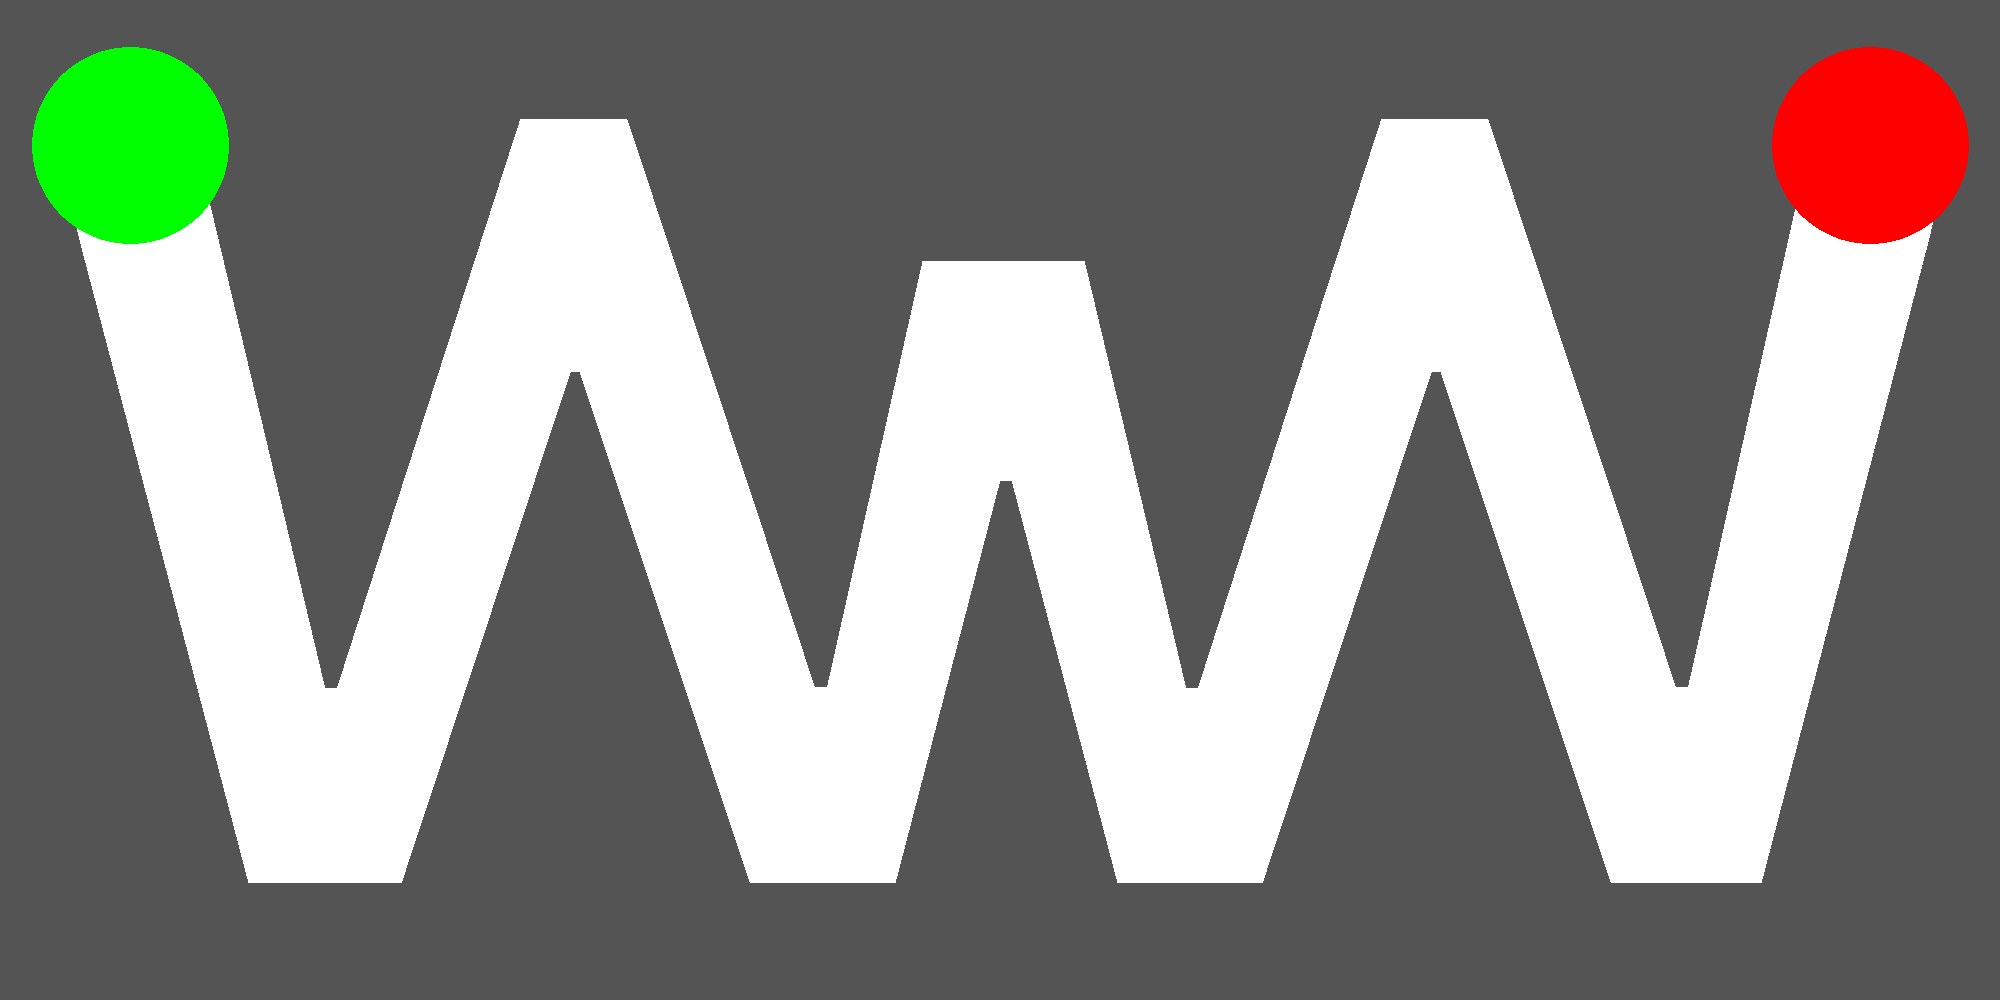
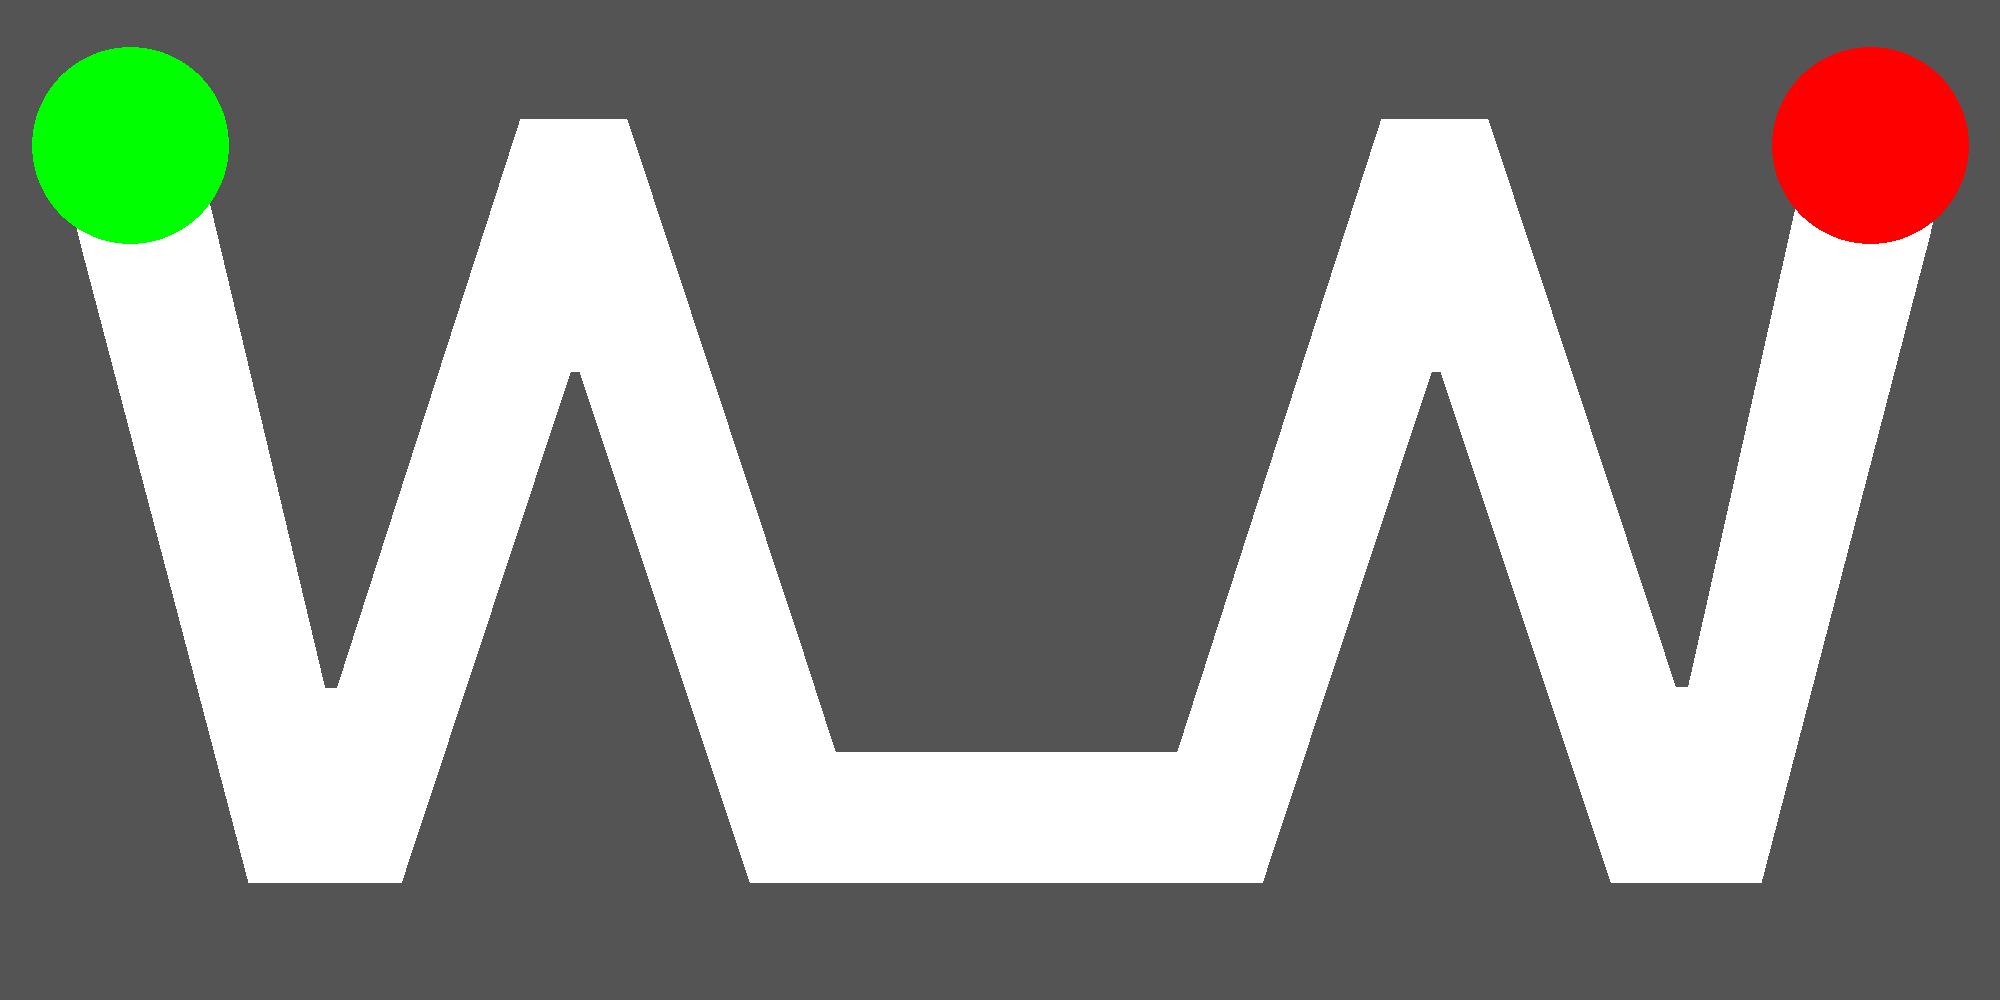
Magic Battles - Add Chains
Magic Battles - Add Chains

Changed region(s): [[0.403, 0.248, 0.62, 0.899]]

diff --git a/BondageClub/Screens/MiniGame/MagicBattle/MagicBattle.js b/BondageClub/Screens/MiniGame/MagicBattle/MagicBattle.js
@@ -8,6 +8,7 @@ var MagicBattleAvailSpell = [];
 var MagicBattleOpponentSpell = 0;
 var MagicBattlePlayerAppearance = null;
 var MagicBattleOpponentAppearance = null;
+var MagicBattleSpellDifficulty = [3, 5, 7, 9, 6, 8];
 
 /**
  * Start a magic battle against an opponent
@@ -40,12 +41,14 @@ function MagicBattleLoad() {
  */
 function MagicBattleGetDifficulty(C) {
 	let D = 0;
-	if ((InventoryGet(C, "Cloth") == null) && (InventoryGet(C, "ClothLower") == null) && (InventoryGet(C, "ClothAccessory") == null) && (InventoryGet(C, "Shoes") == null)) D = D + 2;		
-	if ((InventoryGet(C, "Bra") == null) && (InventoryGet(C, "Panties") == null) && (InventoryGet(C, "Socks") == null) && (InventoryGet(C, "Gloves") == null) && (InventoryGet(C, "Garters") == null) && (InventoryGet(C, "Corset") == null)) D = D + 2;
-	if (InventoryGet(C, "ItemLegs") != null) D++; 
+	if ((InventoryGet(C, "Cloth") == null) && (InventoryGet(C, "ClothLower") == null) && (InventoryGet(C, "ClothAccessory") == null) && (InventoryGet(C, "Shoes") == null)) D++;
+	if ((InventoryGet(C, "Bra") == null) && (InventoryGet(C, "Panties") == null) && (InventoryGet(C, "Socks") == null) && (InventoryGet(C, "Gloves") == null) && (InventoryGet(C, "Garters") == null) && (InventoryGet(C, "Corset") == null)) D = D + 3;
+	if (InventoryGet(C, "ItemLegs") != null) D++;
 	if (InventoryGet(C, "ItemFeet") != null) D++;
-	if (InventoryGet(C, "ItemArms") != null) D = D + 2;
-	if (InventoryGet(C, "ItemTorso") != null) D = D + 2;
+	if (InventoryIsWorn(C, "HempRope", "ItemArms")) D++;
+	if (InventoryIsWorn(C, "Chains", "ItemArms")) D = D + 3;
+	if (InventoryIsWorn(C, "HempRopeHarness", "ItemTorso")) D++;
+	if (InventoryIsWorn(C, "CrotchChain", "ItemTorso")) D = D + 3;
 	return D;
 }
 
@@ -60,14 +63,18 @@ function MagicBattleGetAvailSpells(C) {
 	} else {
 		let Spells = [];
 		if ((InventoryGet(C, "Bra") != null) || (InventoryGet(C, "Panties") != null) || (InventoryGet(C, "Socks") != null) || (InventoryGet(C, "Gloves") != null) || (InventoryGet(C, "Garters") != null) || (InventoryGet(C, "Corset") != null))
-			Spells.push(0);
-		if ((InventoryGet(C, "ItemLegs") == null) || (InventoryGet(C, "ItemFeet") == null))
-			Spells.push(1);
-		else
-			if ((InventoryGet(C, "ItemArms") == null) || (InventoryGet(C, "ItemTorso") == null))
-				Spells.push(2);
+			Spells.push(0); // Strip spell
+		if ((InventoryGet(C, "ItemLegs") == null) || (InventoryGet(C, "ItemFeet") == null)) {
+			Spells.push(1); // Rope legs spell
+			Spells.push(4); // Rope arms/torso spell
+		} else {
+			if ((InventoryGet(C, "ItemArms") == null) || (InventoryGet(C, "ItemTorso") == null)) {
+				Spells.push(2); // Rope legs spell
+				Spells.push(5); // Chain arms/torso spell
+			}
+		}
 		if (InventoryGet(C, "ItemArms") != null)
-			Spells.push(3);
+			Spells.push(3); // Random gag spell
 		return Spells;
 	}
 }
@@ -113,7 +120,7 @@ function MagicBattleSpellStart(S) {
 	// Gets the timer difficulty based on the spell cast by the opponent
 	let Spells = MagicBattleGetAvailSpells(Player);
 	MagicBattleOpponentSpell = Spells[Math.floor(Spells.length * Math.random())];
-	let Difficulty = (3 + (MagicBattleOpponentSpell * 2)) * (2 - MagicBattleDifficulty * 0.1) * (1 + MagicBattleGetDifficulty(MagicBattleOpponent) * 0.1);
+	let Difficulty = MagicBattleSpellDifficulty[MagicBattleOpponentSpell] * (2 - MagicBattleDifficulty * 0.1) * (1 + MagicBattleGetDifficulty(MagicBattleOpponent) * 0.1);
 
 	// Launches the magic puzzle mini game for that spell
 	MagicPuzzleSpell = S;
@@ -127,6 +134,8 @@ function MagicBattleSpellStart(S) {
  * @returns {void} - Nothing
  */
 function MagicSpellEffect(C, Spell) {
+	
+	// Strip spell
 	if (Spell == 0) {
 		if ((InventoryGet(C, "Cloth") != null) || (InventoryGet(C, "ClothLower") != null) || (InventoryGet(C, "ClothAccessory") != null) || (InventoryGet(C, "Shoes") != null)) {
 			InventoryRemove(C, "Cloth", false);
@@ -143,10 +152,14 @@ function MagicSpellEffect(C, Spell) {
 		}
 		CharacterRefresh(C);
 	}
+
+	// Rope legs spell
 	if (Spell == 1) {
 		InventoryWear(C, "HempRope", "ItemLegs");
 		InventoryWear(C, "HempRope", "ItemFeet");
 	}
+
+	// Rope arms/torso spell
 	if (Spell == 2) {
 		if (InventoryGet(C, "ItemArms") == null) {
 			InventoryWear(C, "HempRope", "ItemArms");
@@ -156,8 +169,25 @@ function MagicSpellEffect(C, Spell) {
 			CharacterRefresh(C);
 		}
 	}
+
+	// Random gag spell
 	if (Spell == 3)
 		InventoryWearRandom(C, "ItemMouth", MagicBattleDifficulty);
+
+	// Chain legs spell
+	if (Spell == 4) {
+		InventoryWear(C, "Chains", "ItemLegs");
+		InventoryWear(C, "Chains", "ItemFeet");
+	}
+
+	// Chain arms/torso spell
+	if (Spell == 5) {
+		if (InventoryGet(C, "ItemArms") == null)
+			InventoryWear(C, "Chains", "ItemArms");
+		else
+			InventoryWear(C, "CrotchChain", "ItemTorso");
+	}
+
 }
 
 /**

diff --git a/BondageClub/Screens/Online/GameMagicBattle/GameMagicBattle.js b/BondageClub/Screens/Online/GameMagicBattle/GameMagicBattle.js
@@ -417,6 +417,5 @@ function GameMagicBattleReset() {
 	if ((Player.Game != null) && (Player.Game.MagicBattle != null) && (Player.Game.MagicBattle.Status != null) && (Player.Game.MagicBattle.Status != "")) {
 		Player.Game.MagicBattle.Status = "";
 		ServerAccountUpdate.QueueData({ Game: Player.Game }, true);
-		ChatRoomCharacterUpdate(Player);
 	}
 }

diff --git a/BondageClub/Screens/Online/GameLARP/GameLARP.js b/BondageClub/Screens/Online/GameLARP/GameLARP.js
@@ -1001,6 +1001,5 @@ function GameLARPReset() {
 	if ((Player.Game != null) && (Player.Game.LARP != null) && (Player.Game.LARP.Status != null) && (Player.Game.LARP.Status != "")) {
 		Player.Game.LARP.Status = "";
 		ServerAccountUpdate.QueueData({ Game: Player.Game }, true);
-		ChatRoomCharacterUpdate(Player);
 	}
 }
